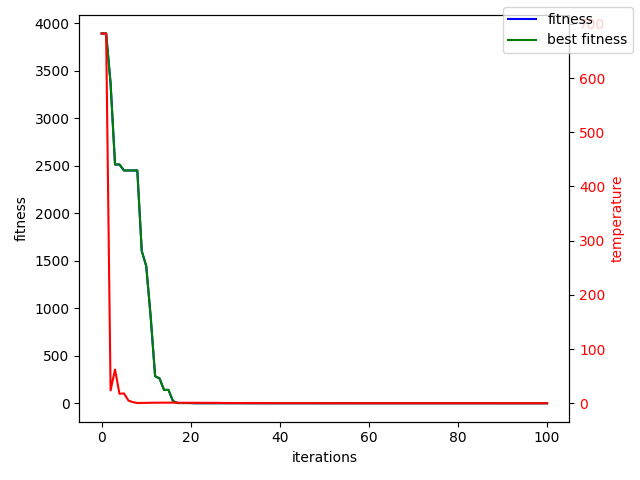
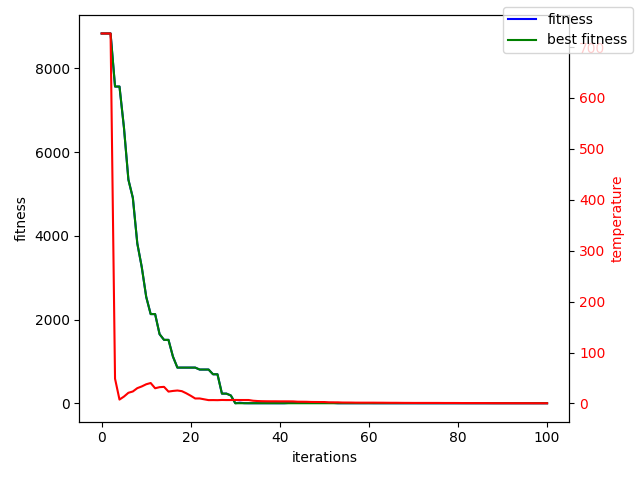
update x^2 example to make use of cts_mutate

diff --git a/x^2.py b/x^2.py
@@ -1,3 +1,4 @@
+from continuous_fn import cts_mutate
 from algorithms.simulated_annealing import (simulated_annealing, thermodynamic_init_temp, 
                                  thermodynamic_simulated_annealing,
                                  metropolis_hastings_algorithm_probability, 
@@ -7,26 +8,35 @@ import numpy as np
 def square(x):
     return x**2
 
-def real_neighbor(x):
-    return np.random.normal(x, 5)
+def mutate(x):
+    return cts_mutate(x, sigma=5)
 
 folder = "x^2_results/"
 
-print("Temp(x) = 100*x")
-sols, fits, temps = simulated_annealing(100, lambda x: x*100, real_neighbor, metropolis_hastings_algorithm_probability, square, 100)
-print_simulated_annealing(sols, fits, temps, f"{folder}SA_x^2_temp=100x.png")
+"""
+Simulated Annealing
+"""
 print("="*80)
+print("Simulated Annealing")
+print("Temp(x) = 100*x")
+sols, fits, temps = simulated_annealing(100, lambda x: x*100, mutate, metropolis_hastings_algorithm_probability, square, 100)
+print_simulated_annealing(sols, fits, temps, f"{folder}SA_x^2_temp=100x.png")
+print("-"*80)
 
 print("Temp(x) = x")
-sols, fits, temps = simulated_annealing(100, lambda x: x, real_neighbor, metropolis_hastings_algorithm_probability, square, 100)
+sols, fits, temps = simulated_annealing(100, lambda x: x, mutate, metropolis_hastings_algorithm_probability, square, 100)
 print_simulated_annealing(sols, fits, temps, f"{folder}SA_x^2_temp=x.png")
-print("="*80)
+print("-"*80)
 
 print("Temp(x) = e^x-1")
-sols, fits, temps = simulated_annealing(100, lambda x: np.exp(x)-1, real_neighbor, metropolis_hastings_algorithm_probability, square, 100)
+sols, fits, temps = simulated_annealing(100, lambda x: np.exp(x)-1, mutate, metropolis_hastings_algorithm_probability, square, 100)
 print_simulated_annealing(sols, fits, temps, f"{folder}SA_x^2_temp=e^x-1.png")
-print("="*80)
 
+"""
+Thermodynamic Simulated Annealing
+"""
+print("="*80)
+print("Thermodynamic Simulated Annealing")
 def generate_random_number():
     return np.random.uniform(-100, 100)
 
@@ -34,5 +44,5 @@ high_prob = 0.8
 init_temp = thermodynamic_init_temp(100, high_prob, square, generate_random_number)
 k_A = 0.1
 print(f"Thermodynamic SA init_temp = {init_temp} k_A = {k_A}")
-sols, fits, temps = thermodynamic_simulated_annealing(generate_random_number(), init_temp, k_A, real_neighbor, metropolis_hastings_algorithm_probability, square, 100)
+sols, fits, temps = thermodynamic_simulated_annealing(generate_random_number(), init_temp, k_A, mutate, metropolis_hastings_algorithm_probability, square, 100)
 print_simulated_annealing(sols, fits, temps, f"{folder}TSA_x^2_kA=1.png")

diff --git a/README.md b/README.md
@@ -2,12 +2,13 @@
 Team Name: SPACE
 Group Members: Semawit Gebrehiwot, Evelyn Kuo, Marina Sha, Lydia Yang
 
-Algorithms:
+Algorithms (algorithms folder):
 - Coral Reef Optimization (coral_reef_optimization.py)
 - Genetic Algorithm (genetic_algorithm.py)
 - Simulated Annealing (simulated_annealing.py)
 
 Applications:
 - Reproduction Operators for Continuous Functions (continuous_fn.py)
-- Rastrigin Function (rastrigin.py)
+- x^2 Function (x^2.py, x^2_results folder)
+- Rastrigin Function (rastrigin.py, rastrigin_results folder)
 - Power Plant Placement Problem (power_plant.py)
